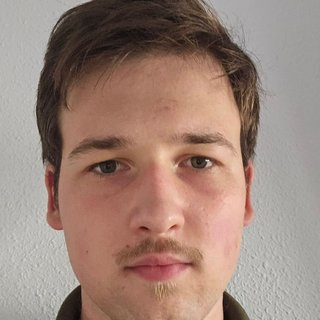
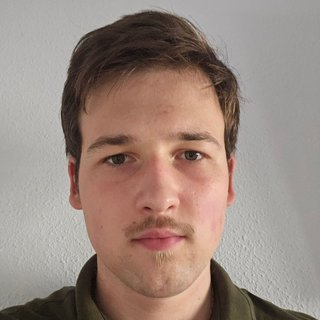
Author badge: zoom photo out, bullet and divide credentials
Claude-Session: https://claude.ai/code/session_016D2mHAti3n4im5Wdb3MDjE

diff --git a/src/varkanis/landing.css b/src/varkanis/landing.css
@@ -257,7 +257,26 @@
   line-height: 1.45;
   color: var(--muted);
 }
-.landing-author-creds li + li { margin-top: 6px; }
+.landing-author-creds li {
+  position: relative;
+  padding-left: 14px;
+}
+.landing-author-creds li::before {
+  content: '';
+  position: absolute;
+  left: 2px;
+  top: 0.6em;
+  width: 4px;
+  height: 4px;
+  border-radius: 50%;
+  background: var(--ink);
+}
+.landing-author-creds li + li {
+  margin-top: 8px;
+  padding-top: 8px;
+  border-top: 1px solid var(--line-soft);
+}
+.landing-author-creds li + li::before { top: calc(8px + 0.6em); }
 
 .landing-plan-badge {
   flex-shrink: 0;
